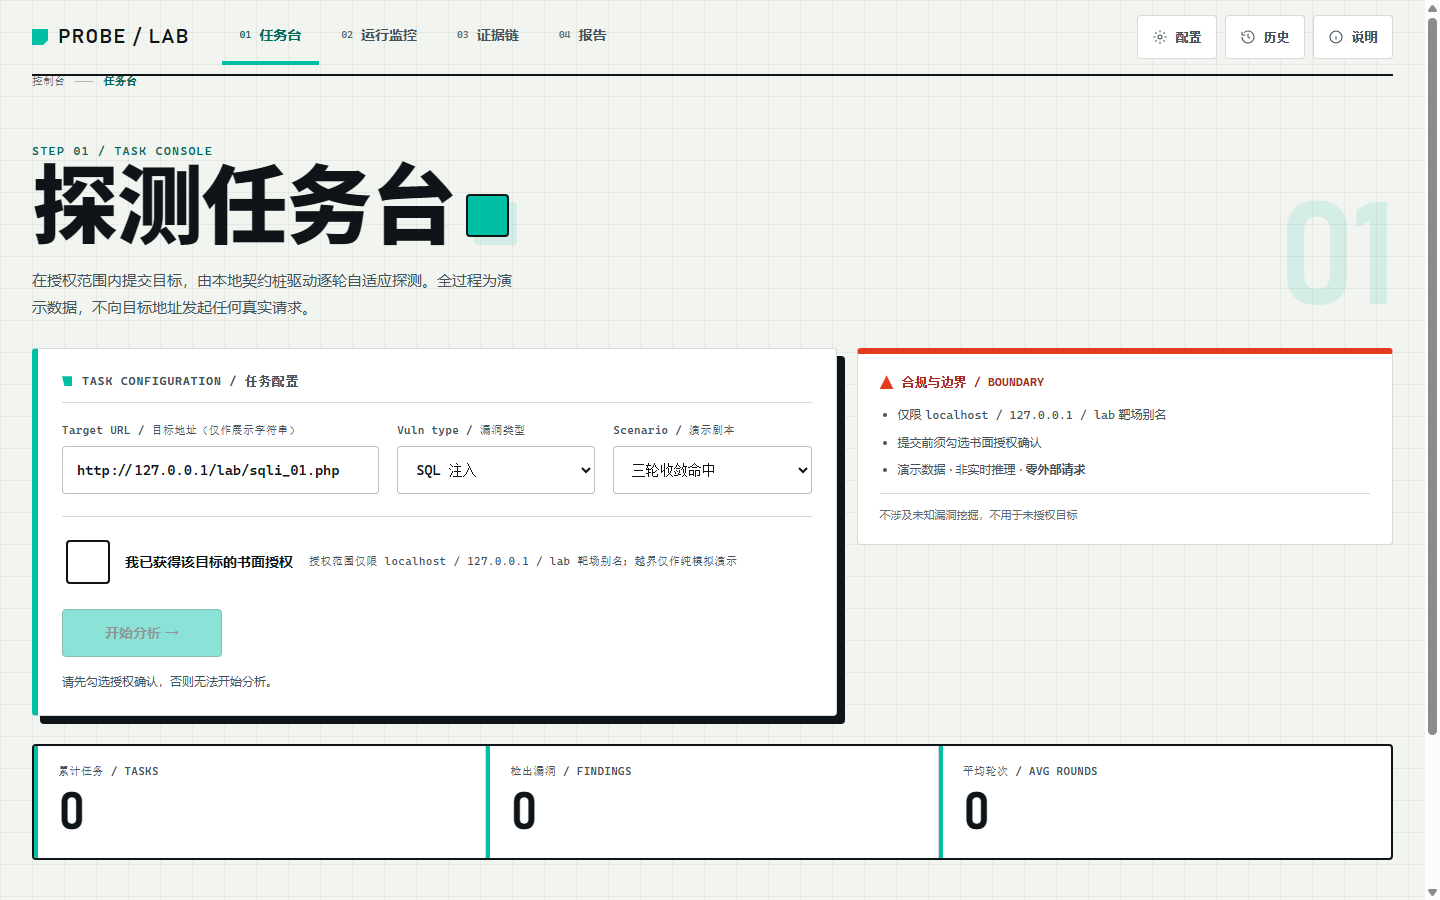
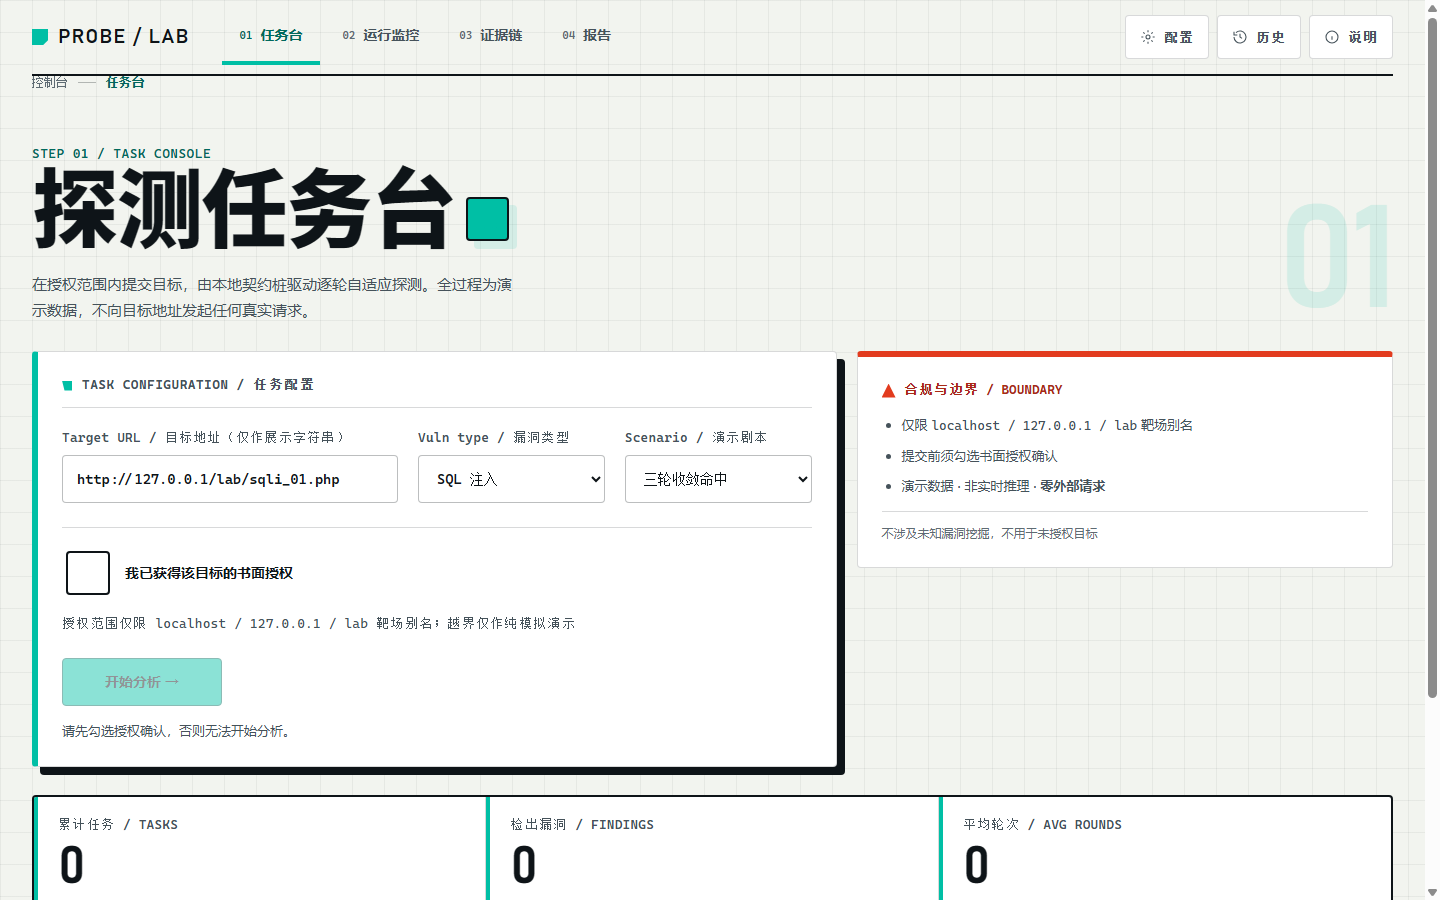
style(console): v0.17.1 功能页辅助小字统一上调一档 + 表单/合规卡布局理顺
- 小字阶梯 10-12px -> 12-14px（表单标签/灰色提示/卡片标题/合规列表/报告/页脚等），大标题与仪表数字不变
- 大写标签字距 .06-.1em -> .02-.04em（字放大后收紧，更精致）
- 表单 gap 18->20、checks/actions margin 22->24、合规卡 padding 统一 24px（归 4px 栅格）
- URL 列 1.6fr->1.8fr，长地址不再截断
- 态势台深色区小字 10->11px、opacity 提高，实测对比度 7.39-9.19:1
- 单测 101/101、CDP 端到端 35/35、390 无溢出、44px 命中、按钮对比度全保持

diff --git a/webapp/css/console.css b/webapp/css/console.css
@@ -92,9 +92,9 @@ input,select{min-height:44px}
 :focus-visible{outline:3px solid var(--key);outline-offset:2px}
 .hidden{display:none !important}
 .mono{font-family:var(--mono),monospace;font-variant-numeric:tabular-nums}
-.lbl{font:500 11px/1.4 var(--mono);letter-spacing:.04em;color:var(--ink-2)}
-.eyebrow{font:600 12px/1.4 var(--mono);letter-spacing:.1em;color:var(--key-ink);text-transform:none;margin:0 0 12px}
-.hint{font-size:12px;color:var(--ink-2);line-height:1.7;margin:12px 0 0}
+.lbl{font:500 13px/1.5 var(--mono);letter-spacing:.02em;color:var(--ink-2)}
+.eyebrow{font:600 13px/1.5 var(--mono);letter-spacing:.04em;color:var(--key-ink);text-transform:none;margin:0 0 12px}
+.hint{font-size:13px;color:var(--ink-2);line-height:1.7;margin:12px 0 0}
 
 /* ---------- 3. 顶栏 + 菜单（真翻页） ---------- */
 .wrap{max-width:1440px;margin:0 auto;padding:0 32px}
@@ -106,19 +106,19 @@ input,select{min-height:44px}
 .mainnav{display:flex;align-items:stretch;gap:4px;margin-left:8px}
 .mainnav a{position:relative;display:inline-flex;align-items:center;min-height:56px;padding:0 18px;
   font:600 14px/1 var(--body);color:var(--ink-2);border-bottom:4px solid transparent;transition:color var(--d-inst),border-color var(--d-inst)}
-.mainnav a .nav-no{font:600 10px/1 var(--mono);color:var(--ink-3);margin-right:8px}
+.mainnav a .nav-no{font:600 11px/1 var(--mono);color:var(--ink-3);margin-right:8px}
 .mainnav a:hover{color:var(--ink)}
 .mainnav a.is-current{color:var(--key-ink);border-bottom-color:var(--key)}
 .mainnav a.is-current .nav-no{color:var(--key-ink)}
 .tools{display:flex;align-items:center;gap:8px;margin-left:auto}
 .tool{display:inline-flex;align-items:center;justify-content:center;gap:8px;min-width:44px;min-height:44px;padding:0 14px;
-  font:600 12px/1 var(--mono);color:var(--ink-2);background:var(--card);border:1px solid var(--hair);border-radius:var(--r);
+  font:600 13px/1 var(--mono);color:var(--ink-2);background:var(--card);border:1px solid var(--hair);border-radius:var(--r);
   transition:color var(--d-inst),border-color var(--d-inst),transform var(--d-inst)}
 .tool:hover{color:var(--key-ink);border-color:var(--key)}
 .tool:active{transform:translateY(1px)}
 .tool svg{width:16px;height:16px;stroke:currentColor;stroke-width:1.6;fill:none}
 .net{display:inline-flex;align-items:center;gap:8px;min-height:44px;padding:0 12px;
-  font:500 11px/1 var(--mono);color:var(--ink-2)}
+  font:500 12px/1 var(--mono);color:var(--ink-2)}
 .net .dots{display:inline-flex;gap:3px}.net .dots i{width:5px;height:5px;background:var(--grn);display:block}
 
 /* ---------- 4. 页头（每页统一大标题 + 编号） ---------- */
@@ -129,7 +129,7 @@ input,select{min-height:44px}
 .page-title .dash{display:inline-block;width:.5em;height:.5em;background:var(--key);margin-left:.12em;vertical-align:baseline}
 .page-sub{max-width:56ch;margin:16px 0 0;font-size:15px;color:var(--ink-2);line-height:1.75}
 .page-no{font:800 clamp(64px,10vw,150px)/.8 var(--display);color:var(--key-dim);letter-spacing:-.04em;user-select:none;flex:none}
-.crumb{display:flex;align-items:center;gap:10px;margin:0 0 16px;font:500 11px/1 var(--mono);color:var(--ink-3)}
+.crumb{display:flex;align-items:center;gap:10px;margin:0 0 16px;font:500 12px/1 var(--mono);color:var(--ink-3)}
 .crumb b{color:var(--key-ink)}
 .crumb span{width:18px;height:1px;background:var(--hair-2)}
 
@@ -137,7 +137,7 @@ input,select{min-height:44px}
 .card{position:relative;background:var(--card);border:1px solid var(--hair);border-radius:var(--r);padding:24px}
 .card--key{border-left:6px solid var(--key)}
 .card--shadow{box-shadow:8px 8px 0 var(--ink)}
-.card-title{font:700 12px/1.4 var(--mono);letter-spacing:.06em;color:var(--ink-2);text-transform:none;
+.card-title{font:700 13px/1.4 var(--mono);letter-spacing:.04em;color:var(--ink-2);text-transform:none;
   margin:0 0 20px;padding-bottom:12px;border-bottom:1px solid var(--hair);display:flex;align-items:center;gap:10px}
 .card-title::before{content:"";width:10px;height:10px;background:var(--key);display:block;
   clip-path:polygon(0 0,100% 0,100% 100%,25% 100%)}
@@ -145,11 +145,11 @@ input,select{min-height:44px}
 .grid-3{display:grid;grid-template-columns:repeat(3,1fr);gap:16px}
 
 /* 合规边界卡 */
-.boundary-card{background:var(--card);border:1px solid var(--hair);border-top:6px solid var(--verm);border-radius:var(--r);padding:20px 22px}
-.boundary-card__title{font:700 12px/1.4 var(--mono);color:var(--verm-ink);display:flex;align-items:center;gap:8px;margin-bottom:14px}
+.boundary-card{background:var(--card);border:1px solid var(--hair);border-top:6px solid var(--verm);border-radius:var(--r);padding:24px}
+.boundary-card__title{font:700 13px/1.4 var(--mono);color:var(--verm-ink);display:flex;align-items:center;gap:8px;margin-bottom:14px}
 .boundary-card__title i{width:14px;height:14px;background:var(--verm);display:block;clip-path:polygon(50% 0,100% 100%,0 100%)}
-.boundary-card ul{margin:0;padding-left:18px}.boundary-card li{font-size:12px;color:var(--ink-2);margin:8px 0;line-height:1.6}
-.boundary-card__foot{margin:14px 0 0;font-size:11px;color:var(--ink-3);border-top:1px solid var(--hair);padding-top:12px}
+.boundary-card ul{margin:0;padding-left:20px}.boundary-card li{font-size:13px;color:var(--ink-2);margin:8px 0;line-height:1.7}
+.boundary-card__foot{margin:14px 0 0;font-size:12px;color:var(--ink-3);border-top:1px solid var(--hair);padding-top:12px}
 
 /* ---------- 6. 按钮 ---------- */
 .btn-solid,.btn-ghost{display:inline-flex;align-items:center;justify-content:center;gap:10px;min-height:48px;padding:0 24px;
@@ -168,7 +168,7 @@ input,select{min-height:44px}
 .nav-trigger{position:absolute;width:0;height:0;overflow:hidden;opacity:0;pointer-events:none}
 
 /* ---------- 7. 表单 ---------- */
-.form-grid{display:grid;grid-template-columns:1.6fr 1fr 1fr;gap:18px}
+.form-grid{display:grid;grid-template-columns:1.8fr 1fr 1fr;gap:20px}
 .field{display:flex;flex-direction:column;gap:8px}
 .field.lbl{color:var(--ink-2)}
 input[type=text],select{width:100%;min-height:48px;padding:0 14px;background:var(--card);border:1px solid var(--hair-2);
@@ -176,8 +176,8 @@ input[type=text],select{width:100%;min-height:48px;padding:0 14px;background:var
 input[type=text]:focus,select:focus{border-color:var(--key);outline:2px solid var(--key-dim)}
 input[type=text]::placeholder{color:var(--ink-3)}
 .engine-tag{display:inline-flex;align-items:center;min-height:48px;padding:0 14px;background:var(--key-dim);border:1px solid var(--key);
-  border-radius:var(--r);font:600 11px/1 var(--mono);color:var(--key-ink)}
-.checks{display:flex;align-items:center;gap:16px;flex-wrap:wrap;margin-top:22px;padding-top:20px;border-top:1px solid var(--hair)}
+  border-radius:var(--r);font:600 12px/1 var(--mono);color:var(--key-ink)}
+.checks{display:flex;align-items:center;gap:16px;flex-wrap:wrap;margin-top:24px;padding-top:20px;border-top:1px solid var(--hair)}
 .checks label{display:flex;align-items:center;gap:12px;cursor:pointer;min-height:44px;font-weight:600}
 .checks input[type=checkbox]{-webkit-appearance:none;appearance:none;width:44px;height:44px;min-width:44px;min-height:44px;flex:none;
   border:2px solid var(--ink);border-radius:var(--r);background:var(--card);position:relative;cursor:pointer}
@@ -185,12 +185,12 @@ input[type=text]::placeholder{color:var(--ink-3)}
 .checks input[type=checkbox]:checked::after{content:"";position:absolute;left:13px;top:8px;width:10px;height:18px;
   border:solid #fff;border-width:0 3px 3px 0;transform:rotate(45deg)}
 .checks .lbl{font-weight:400}
-.actions{display:flex;align-items:center;gap:14px;flex-wrap:wrap;margin-top:22px}
+.actions{display:flex;align-items:center;gap:14px;flex-wrap:wrap;margin-top:24px}
 .actions .btn-solid{min-width:160px}
 #cancelBtn.hidden{display:block !important;position:absolute;width:44px;height:44px;min-width:44px;min-height:44px;
   opacity:0;visibility:hidden;pointer-events:none;left:0;top:0}
 .msg-box{display:inline-flex;align-items:center;min-height:44px}
-#msg{font:600 12px/1.5 var(--mono)}
+#msg{font:600 13px/1.5 var(--mono)}
 #msg.err{color:var(--verm-ink)}#msg.warn{color:var(--yel-ink)}#msg.ok{color:var(--grn-ink)}
 .auth-hint{margin-top:14px}
 
@@ -213,9 +213,9 @@ input[type=text]::placeholder{color:var(--ink-3)}
 .stage-no{flex:none;min-width:48px;font:800 26px/1 var(--mono);color:var(--key-ink)}
 .stage-meta{flex:1;min-width:0}
 .stage-title{margin:0;font:800 22px/1.2 var(--display);color:var(--ink)}
-.stage-kicker{font:600 11px/1 var(--mono);color:var(--ink-3);margin-left:10px;letter-spacing:.06em}
-.stage-desc{margin:6px 0 0;font-size:12px;color:var(--ink-2);line-height:1.6}
-.stage-tag{flex:none;font:700 10px/1 var(--mono);padding:8px 10px;border:1px solid var(--hair-2);border-radius:var(--r);color:var(--ink-2)}
+.stage-kicker{font:600 12px/1 var(--mono);color:var(--ink-3);margin-left:10px;letter-spacing:.04em}
+.stage-desc{margin:6px 0 0;font-size:13px;color:var(--ink-2);line-height:1.6}
+.stage-tag{flex:none;font:700 11px/1 var(--mono);padding:8px 10px;border:1px solid var(--hair-2);border-radius:var(--r);color:var(--ink-2)}
 .stage-tag--key{background:var(--yel);color:#241F00;border-color:var(--yel-ink)}
 
 .dash{position:relative;background:var(--sit-bg);border:2px solid var(--ink);border-radius:var(--r);color:var(--sit-txt);overflow:hidden;box-shadow:8px 8px 0 var(--key-dim)}
@@ -238,11 +238,11 @@ input[type=text]::placeholder{color:var(--ink-3)}
 .sit__node.is-degraded{stroke:var(--yel);stroke-dasharray:3 3}
 .sit__path--key{fill:none;stroke:var(--sit-hit);stroke-width:3;opacity:0;transition:opacity var(--d-state),stroke-dasharray var(--d-state)}
 .fx-intrusion{position:absolute;left:0;right:0;bottom:0;display:flex;align-items:center;gap:8px;padding:8px 18px;
-  background:var(--verm);color:#fff;font:700 10px/1 var(--mono);letter-spacing:.06em;opacity:0;transform:translateY(100%);
+  background:var(--verm);color:#fff;font:700 11px/1 var(--mono);letter-spacing:.04em;opacity:0;transform:translateY(100%);
   transition:opacity var(--d-state),transform var(--d-state)}
 .fx-intrusion i{width:7px;height:7px;background:#fff;clip-path:polygon(50% 0,100% 100%,0 100%)}
 .dash__head{position:relative;display:flex;align-items:center;justify-content:space-between;padding:18px 22px 8px}
-.dash__head .lbl{color:var(--sit-txt);opacity:.8}
+.dash__head .lbl{color:var(--sit-txt);opacity:.85;letter-spacing:.04em}
 .dash__state{display:inline-flex;align-items:center;gap:10px;font:800 14px/1 var(--mono);color:var(--st-idle);transition:color var(--d-inst)}
 .dash__state i{width:12px;height:12px;background:var(--dot-idle);display:block;flex:none;transition:background var(--d-inst)}
 .dash__body{position:relative;display:grid;grid-template-columns:minmax(240px,320px) 1fr;gap:24px;padding:8px 22px 24px}
@@ -251,17 +251,17 @@ input[type=text]::placeholder{color:var(--ink-3)}
 .gauge__num .cap{font:600 16px/1 var(--mono);color:var(--sit-txt)}
 .rail{display:flex;gap:4px;margin-bottom:10px}
 .rail i{flex:1;min-width:0;height:26px;display:flex;align-items:center;justify-content:center;
-  font:600 10px/1 var(--mono);color:var(--sit-txt);background:rgba(255,255,255,.06);border:1px solid rgba(255,255,255,.12);
+  font:600 11px/1 var(--mono);color:var(--sit-txt);background:rgba(255,255,255,.06);border:1px solid rgba(255,255,255,.12);
   transition:background var(--d-step),border-color var(--d-step),color var(--d-step)}
 .rail i.on{background:var(--cyan);border-color:var(--cyan);color:#04231E}
 .rail i.deg{background:var(--yel);border-color:var(--yel);color:#241F00}
 .rail i.cur{border-color:var(--dot-run);box-shadow:inset 0 0 0 1px var(--dot-run)}
-.gauge__foot{display:flex;justify-content:space-between;font:500 10px/1 var(--mono);color:var(--sit-txt);opacity:.8}
+.gauge__foot{display:flex;justify-content:space-between;font:500 11px/1 var(--mono);color:var(--sit-txt);opacity:.85}
 .matrix{display:grid;grid-template-columns:repeat(3,1fr);gap:10px;align-content:start}
 .cell{position:relative;background:rgba(255,255,255,.05);border:1px solid rgba(255,255,255,.12);border-radius:var(--r-in);padding:14px}
-.cell .lbl{color:var(--sit-txt);opacity:.75;font-size:10px}
+.cell .lbl{color:var(--sit-txt);opacity:.85;font-size:11px;letter-spacing:.03em}
 .cell__val b{display:block;margin:8px 0;font:800 30px/1 var(--display);color:#fff;font-variant-numeric:tabular-nums}
-.cell__note{font:500 10px/1 var(--mono);color:var(--sit-txt);opacity:.6}
+.cell__note{font:500 11px/1 var(--mono);color:var(--sit-txt);opacity:.75}
 .meter{display:block;height:4px;margin:10px 0 8px;background:rgba(255,255,255,.12);border-radius:2px;overflow:hidden}
 .meter i{display:block;height:100%;width:0;background:var(--cyan);transition:width var(--d-state) var(--ease)}
 .cell[data-tone="blocked"] .meter i{background:var(--sit-def)}
@@ -292,14 +292,14 @@ input[type=text]::placeholder{color:var(--ink-3)}
 .run-head{display:flex;align-items:center;gap:12px;flex-wrap:wrap}
 .spin{width:16px;height:16px;border:2px solid var(--hair-2);border-top-color:var(--key);border-radius:50%;flex:none;animation:spin 1s linear infinite}
 @keyframes spin{to{transform:rotate(360deg)}}
-.run-state{font:600 12px/1.4 var(--mono);color:var(--ink-2)}
+.run-state{font:600 13px/1.4 var(--mono);color:var(--ink-2)}
 .run-state b{color:var(--key-ink);font-weight:800}
 .bar{position:relative;height:8px;margin-top:16px;overflow:hidden;border-radius:4px;background:var(--panel3)}
 .bar i{display:block;height:100%;width:0;background:var(--key);border-radius:4px;transition:width var(--d-state) var(--ease)}
-.thinking{display:flex;align-items:center;gap:8px;margin-top:14px;font:500 11px/1 var(--mono);color:var(--ink-2);flex-wrap:wrap}
+.thinking{display:flex;align-items:center;gap:8px;margin-top:14px;font:500 12px/1.4 var(--mono);color:var(--ink-2);flex-wrap:wrap}
 .thinking i{width:6px;height:6px;background:var(--key)}
 .thinking em{font-style:normal;color:var(--ink-3)}
-.terminal{height:180px;overflow:auto;margin-top:14px;padding:14px 16px;background:var(--sit-bg);border-radius:var(--r-in);font:11px/1.85 var(--mono);color:var(--sit-txt)}
+.terminal{height:180px;overflow:auto;margin-top:14px;padding:14px 16px;background:var(--sit-bg);border-radius:var(--r-in);font:12px/1.8 var(--mono);color:var(--sit-txt)}
 .terminal .line{white-space:pre-wrap;word-break:break-word;animation:lineIn var(--d-inst) var(--ease) both}
 .terminal .line.accent{color:var(--sit-atk)} .terminal .line.ok{color:var(--sit-hit)}
 .terminal .line.warn{color:var(--yel)}
@@ -307,13 +307,13 @@ input[type=text]::placeholder{color:var(--ink-3)}
 
 /* ---------- 10. 表格 / 标签 / 结论 ---------- */
 .tbl-scroll{overflow-x:auto;border:1px solid var(--hair);border-radius:var(--r)}
-.tbl{width:100%;min-width:640px;border-collapse:collapse;font:11px/1.6 var(--mono);background:var(--card)}
+.tbl{width:100%;min-width:640px;border-collapse:collapse;font:12px/1.6 var(--mono);background:var(--card)}
 .tbl th,.tbl td{padding:12px 14px;border-bottom:1px solid var(--hair);text-align:left;vertical-align:middle}
 .tbl th{color:var(--ink-2);font-weight:700;white-space:nowrap;background:var(--card-2);border-bottom:2px solid var(--ink)}
 .tbl tr:last-child td{border-bottom:0}
 .tbl tbody tr:hover td{background:var(--key-dim)}
 .tbl tbody tr:hover td:first-child{box-shadow:inset 4px 0 0 var(--key);color:var(--key-ink)}
-.tag{display:inline-flex;align-items:center;gap:6px;padding:5px 9px;border:1px solid var(--hair-2);border-radius:var(--r-in);font:700 10px/1 var(--mono)}
+.tag{display:inline-flex;align-items:center;gap:6px;padding:5px 9px;border:1px solid var(--hair-2);border-radius:var(--r-in);font:700 11px/1 var(--mono)}
 .tag::before{content:"";width:6px;height:6px;background:currentColor;display:block}
 .tag.normal::before{width:8px;height:2px}
 .tag.blocked{color:var(--verm-ink);border-color:var(--verm);background:var(--verm-dim)}
@@ -338,45 +338,45 @@ input[type=text]::placeholder{color:var(--ink-3)}
 .verdict em{font-style:normal;color:var(--key-ink)}
 .result-grid{display:grid;grid-template-columns:repeat(5,1fr);gap:12px;margin:20px 0}
 .kv{background:var(--card-2);border:1px solid var(--hair);border-radius:var(--r-in);padding:14px}
-.kv .lbl{display:block;margin-bottom:8px}.kv b{font-size:13px}
+.kv .lbl{display:block;margin-bottom:8px}.kv b{font-size:14px}
 .evidence{position:relative;padding:16px 18px;border-left:5px solid var(--key);border-radius:0 var(--r-in) var(--r-in) 0;
   background:var(--key-dim);font-size:13px;line-height:1.85}
 .empty{padding:28px;text-align:center;color:var(--ink-2)}
 .empty b{display:block;font:700 18px/1.3 var(--display);color:var(--ink);margin-bottom:8px}
-.empty span{font-size:12px}
+.empty span{font-size:13px}
 .empty--inline{padding:20px;border:1px dashed var(--hair-2);border-radius:var(--r);margin-top:14px}
 
 /* ---------- 11. 报告（5 附录 + 打印） ---------- */
 .report-sec{margin-bottom:26px}
 .report-sec h3{font:800 16px/1.3 var(--display);color:var(--key-ink);margin:0 0 12px;padding-left:12px;border-left:4px solid var(--key)}
 .cover{display:grid;grid-template-columns:repeat(2,1fr);gap:0;border:1px solid var(--hair);border-radius:var(--r);overflow:hidden}
-.cover>div{padding:12px 16px;border-bottom:1px solid var(--hair);font-size:12px}
+.cover>div{padding:12px 16px;border-bottom:1px solid var(--hair);font-size:13px}
 .cover>div:nth-child(odd){background:var(--card-2)}
-.cover span{display:block;color:var(--ink-3);font:600 10px/1 var(--mono);margin-bottom:6px}
-details.raw summary{cursor:pointer;font:600 12px/1 var(--mono);color:var(--key-ink);min-height:44px;display:flex;align-items:center}
-details.raw pre{white-space:pre-wrap;word-break:break-word;background:var(--sit-bg);color:var(--sit-txt);padding:16px;border-radius:var(--r-in);font:11px/1.7 var(--mono);overflow:auto}
-.watermark{margin-top:24px;padding-top:14px;border-top:1px dashed var(--hair-2);font:500 10px/1.6 var(--mono);color:var(--ink-3);text-align:center}
+.cover span{display:block;color:var(--ink-3);font:600 11px/1 var(--mono);margin-bottom:6px}
+details.raw summary{cursor:pointer;font:600 13px/1.4 var(--mono);color:var(--key-ink);min-height:44px;display:flex;align-items:center}
+details.raw pre{white-space:pre-wrap;word-break:break-word;background:var(--sit-bg);color:var(--sit-txt);padding:16px;border-radius:var(--r-in);font:12px/1.7 var(--mono);overflow:auto}
+.watermark{margin-top:24px;padding-top:14px;border-top:1px dashed var(--hair-2);font:500 11px/1.6 var(--mono);color:var(--ink-3);text-align:center}
 .no-print{display:inline-flex}
 
 /* ---------- 12. 配置快照 / 历史 / 说明 ---------- */
 .config-grid{display:grid;grid-template-columns:repeat(2,1fr);gap:0;border:1px solid var(--hair);border-radius:var(--r);overflow:hidden}
-.config-grid>div{padding:14px 18px;border-bottom:1px solid var(--hair);font-size:13px}
+.config-grid>div{padding:14px 18px;border-bottom:1px solid var(--hair);font-size:14px}
 .config-grid>div:nth-child(odd){background:var(--card-2)}
-.config-grid span{display:block;font:600 10px/1 var(--mono);color:var(--ink-3);margin-bottom:6px}
+.config-grid span{display:block;font:600 11px/1 var(--mono);color:var(--ink-3);margin-bottom:6px}
 .about-sec{margin-bottom:22px}.about-sec h3{font:800 16px/1.3 var(--display);color:var(--key-ink);margin:0 0 10px}
-.about-sec p,.about-sec li{font-size:13px;color:var(--ink-2);line-height:1.8}
+.about-sec p,.about-sec li{font-size:14px;color:var(--ink-2);line-height:1.8}
 .about-sec ul{padding-left:20px}
 
 /* ---------- 13. 页脚 ---------- */
 footer{display:flex;justify-content:space-between;align-items:flex-end;gap:24px;margin-top:48px;padding:28px 0 40px;border-top:2px solid var(--ink)}
 .foot-links{display:flex;gap:6px;flex-wrap:wrap}
 .foot-links a{display:inline-flex;align-items:center;justify-content:center;min-height:44px;min-width:44px;padding:0 12px;
-  font:600 11px/1 var(--mono);color:var(--ink-2);border:1px solid var(--hair);border-radius:var(--r)}
+  font:600 12px/1 var(--mono);color:var(--ink-2);border:1px solid var(--hair);border-radius:var(--r)}
 .foot-links a:hover{color:var(--key-ink);border-color:var(--key)}
-.boundary{margin-top:14px;font-size:11px;color:var(--ink-3);line-height:1.7;max-width:80ch}
+.boundary{margin-top:14px;font-size:12px;color:var(--ink-3);line-height:1.7;max-width:80ch}
 .foot-end{display:flex;align-items:center;gap:12px}
 .sound-off{min-height:44px;padding:0 14px;border:1px solid var(--hair-2);border-radius:var(--r);background:var(--card);
-  font:600 10px/1 var(--mono);color:var(--ink-2)}
+  font:600 11px/1 var(--mono);color:var(--ink-2)}
 .sound-off[aria-checked="true"]{color:var(--grn-ink);border-color:var(--grn);background:var(--grn-dim)}
 
 /* ---------- 14. 响应式 ---------- */
